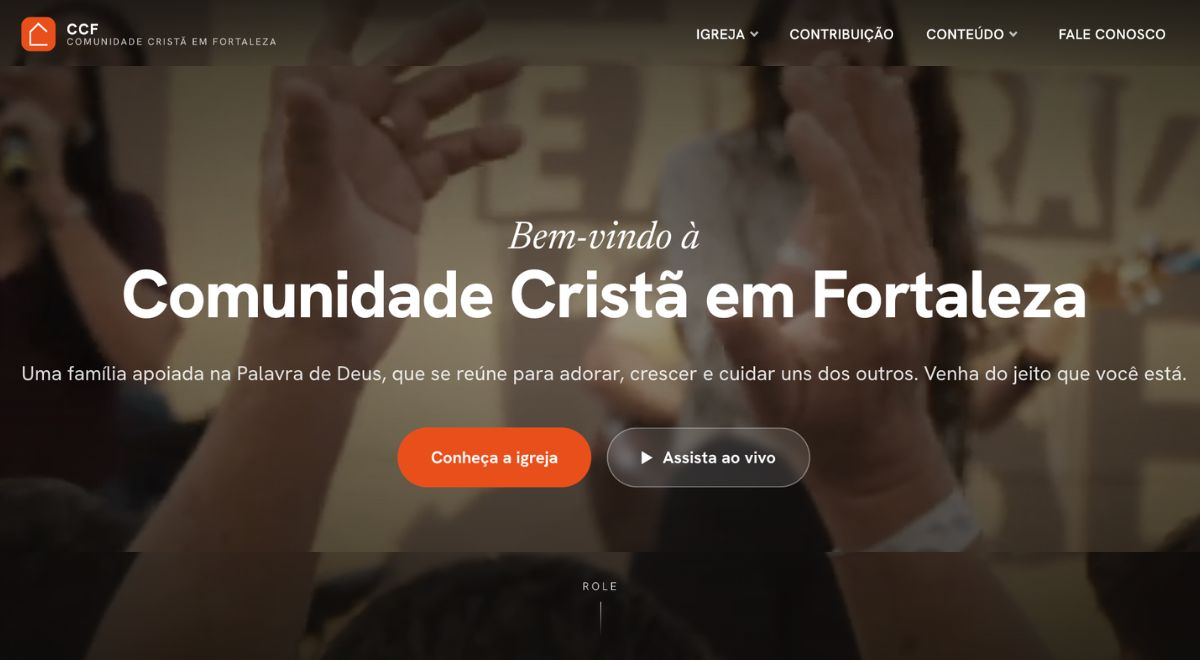
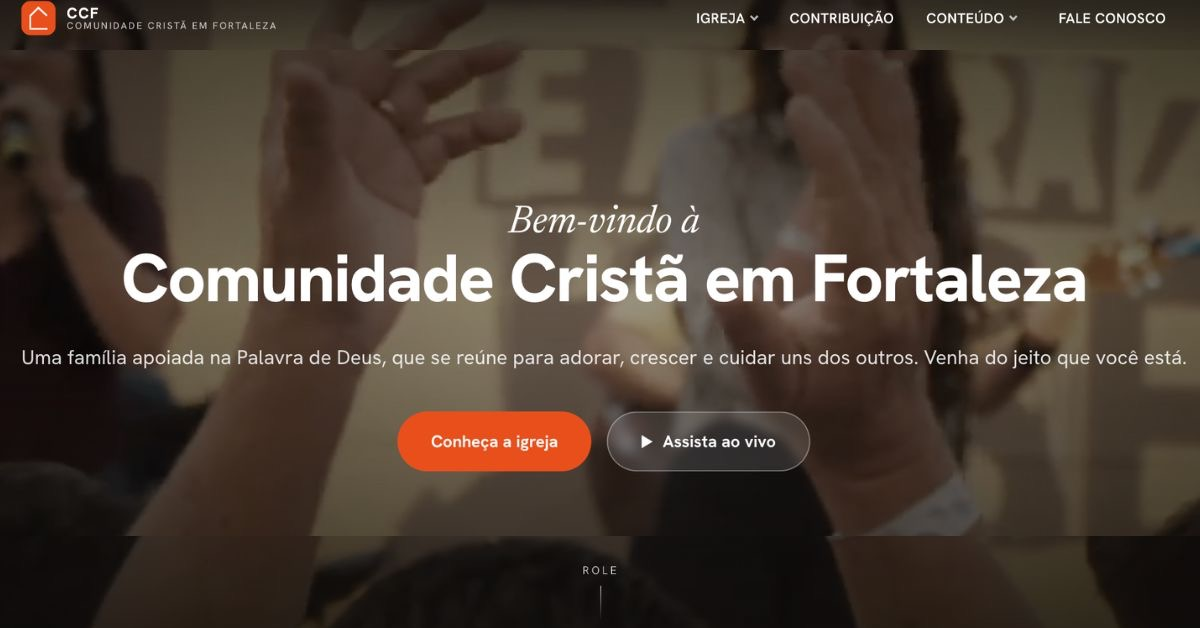
atualizacao

diff --git a/index.html b/index.html
@@ -23,7 +23,7 @@
       content="https://ccf.org.br/images/og-preview.jpg"
     />
     <meta property="og:image:width" content="1200" />
-    <meta property="og:image:height" content="660" />
+    <meta property="og:image:height" content="628" />
     <meta
       property="og:image:alt"
       content="Tela inicial do site da Comunidade Cristã em Fortaleza"